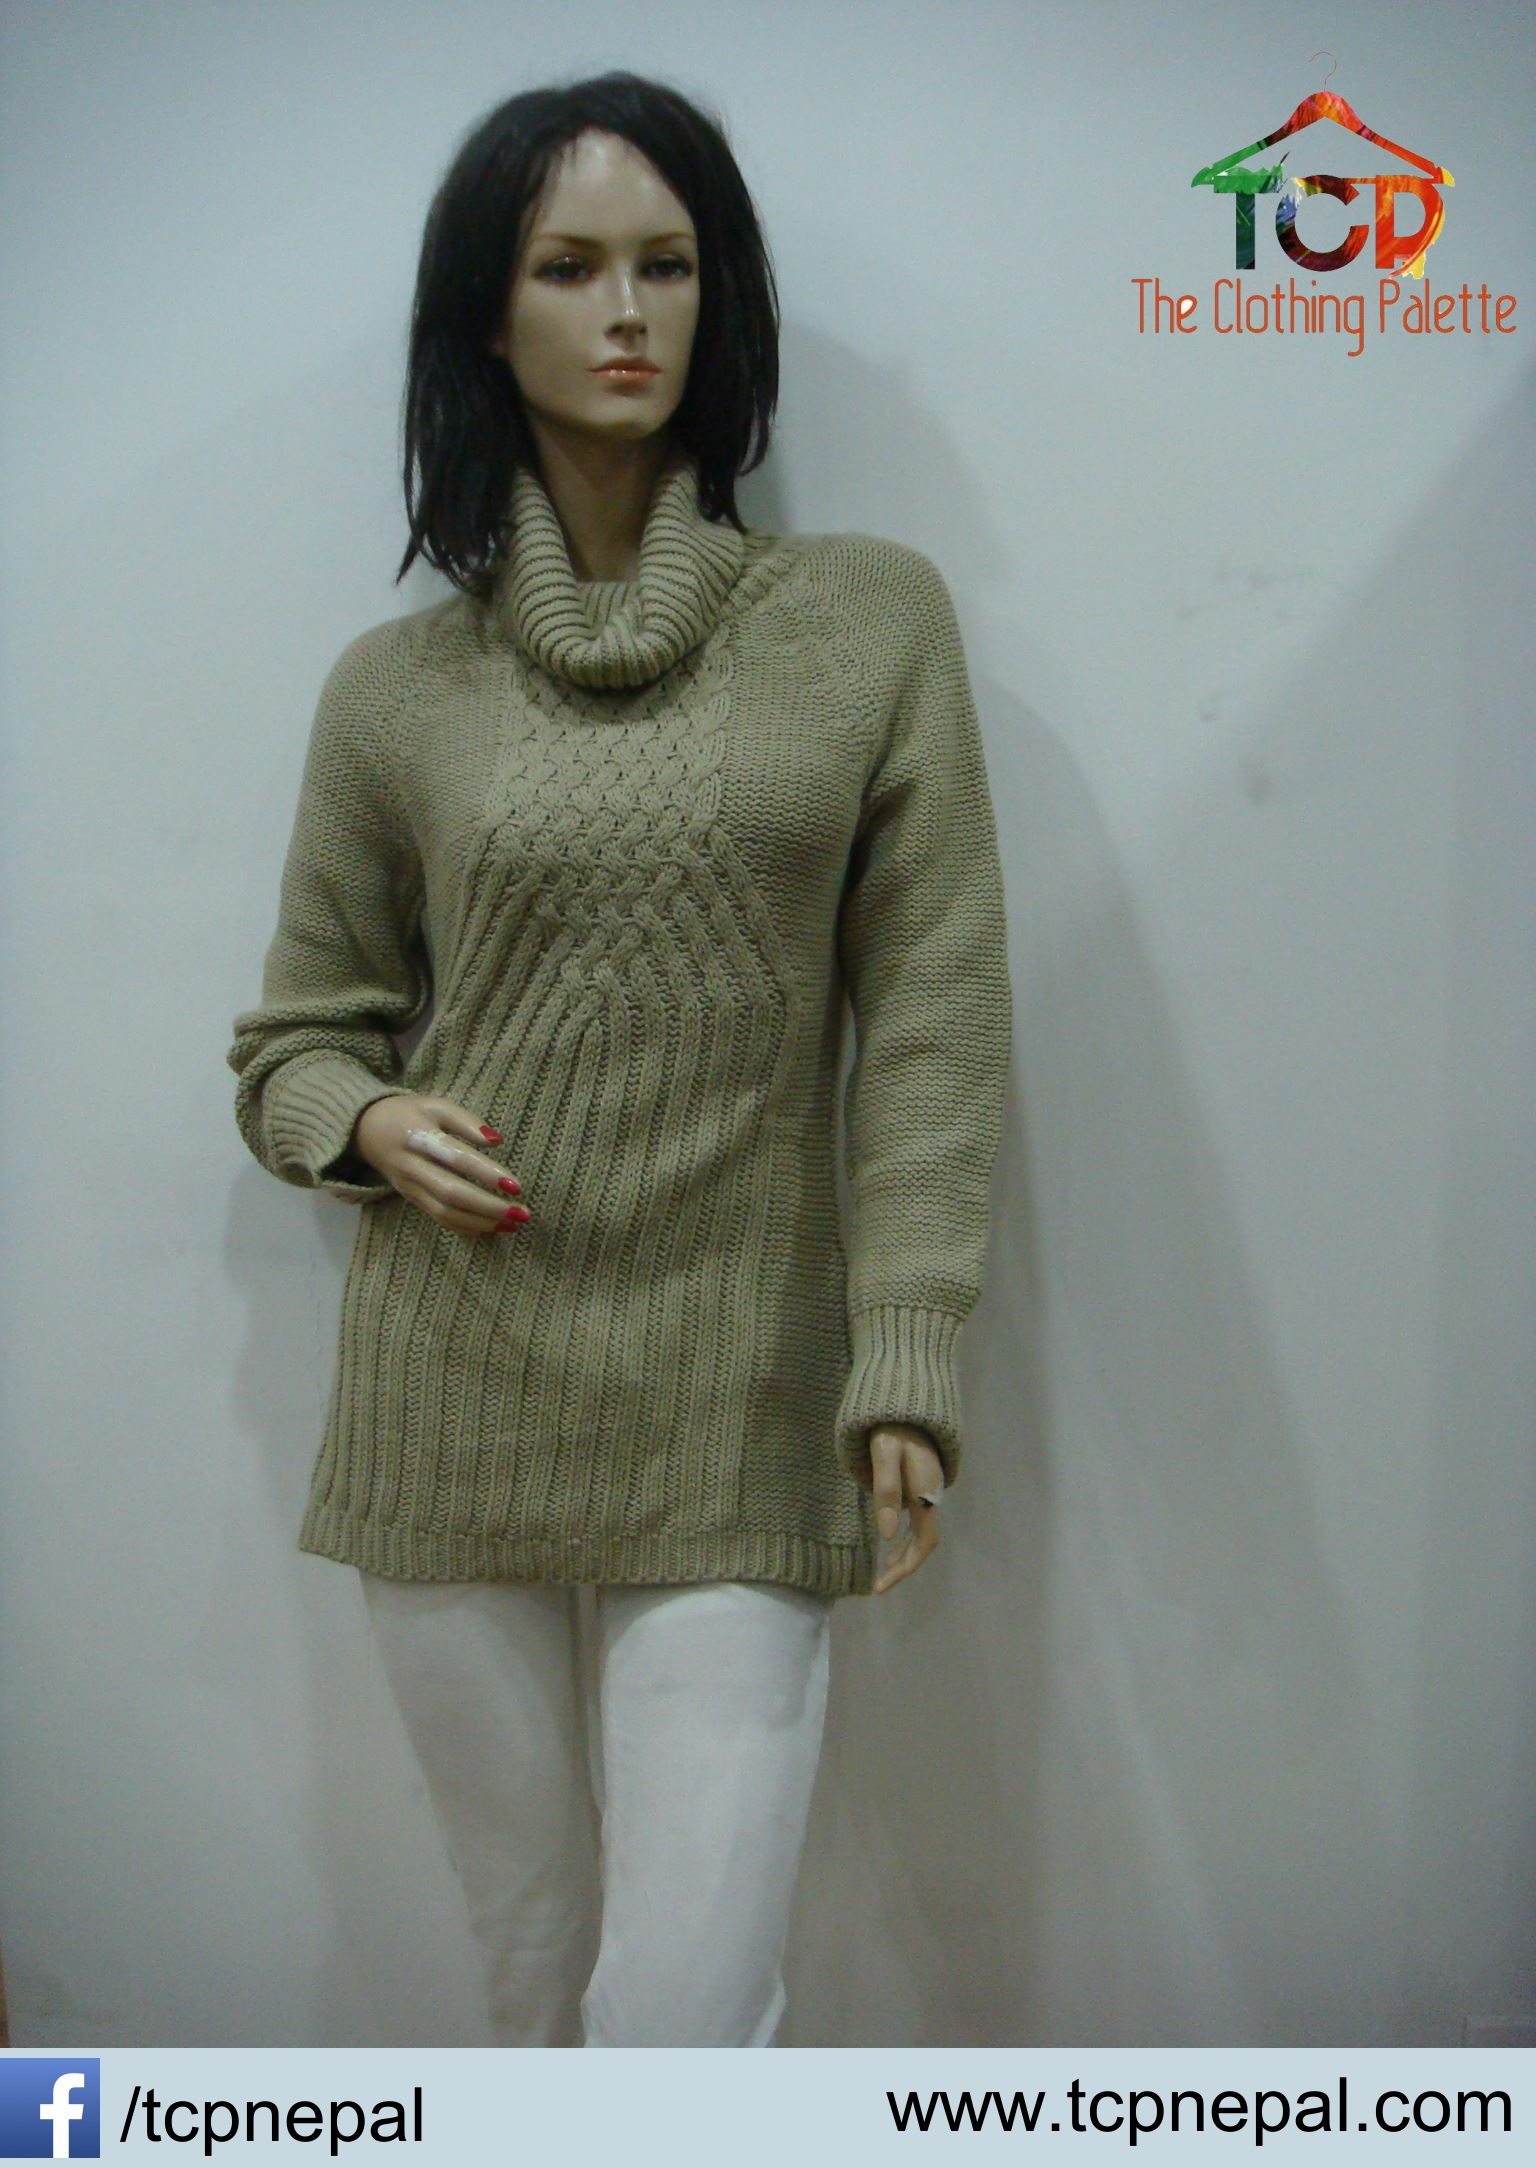
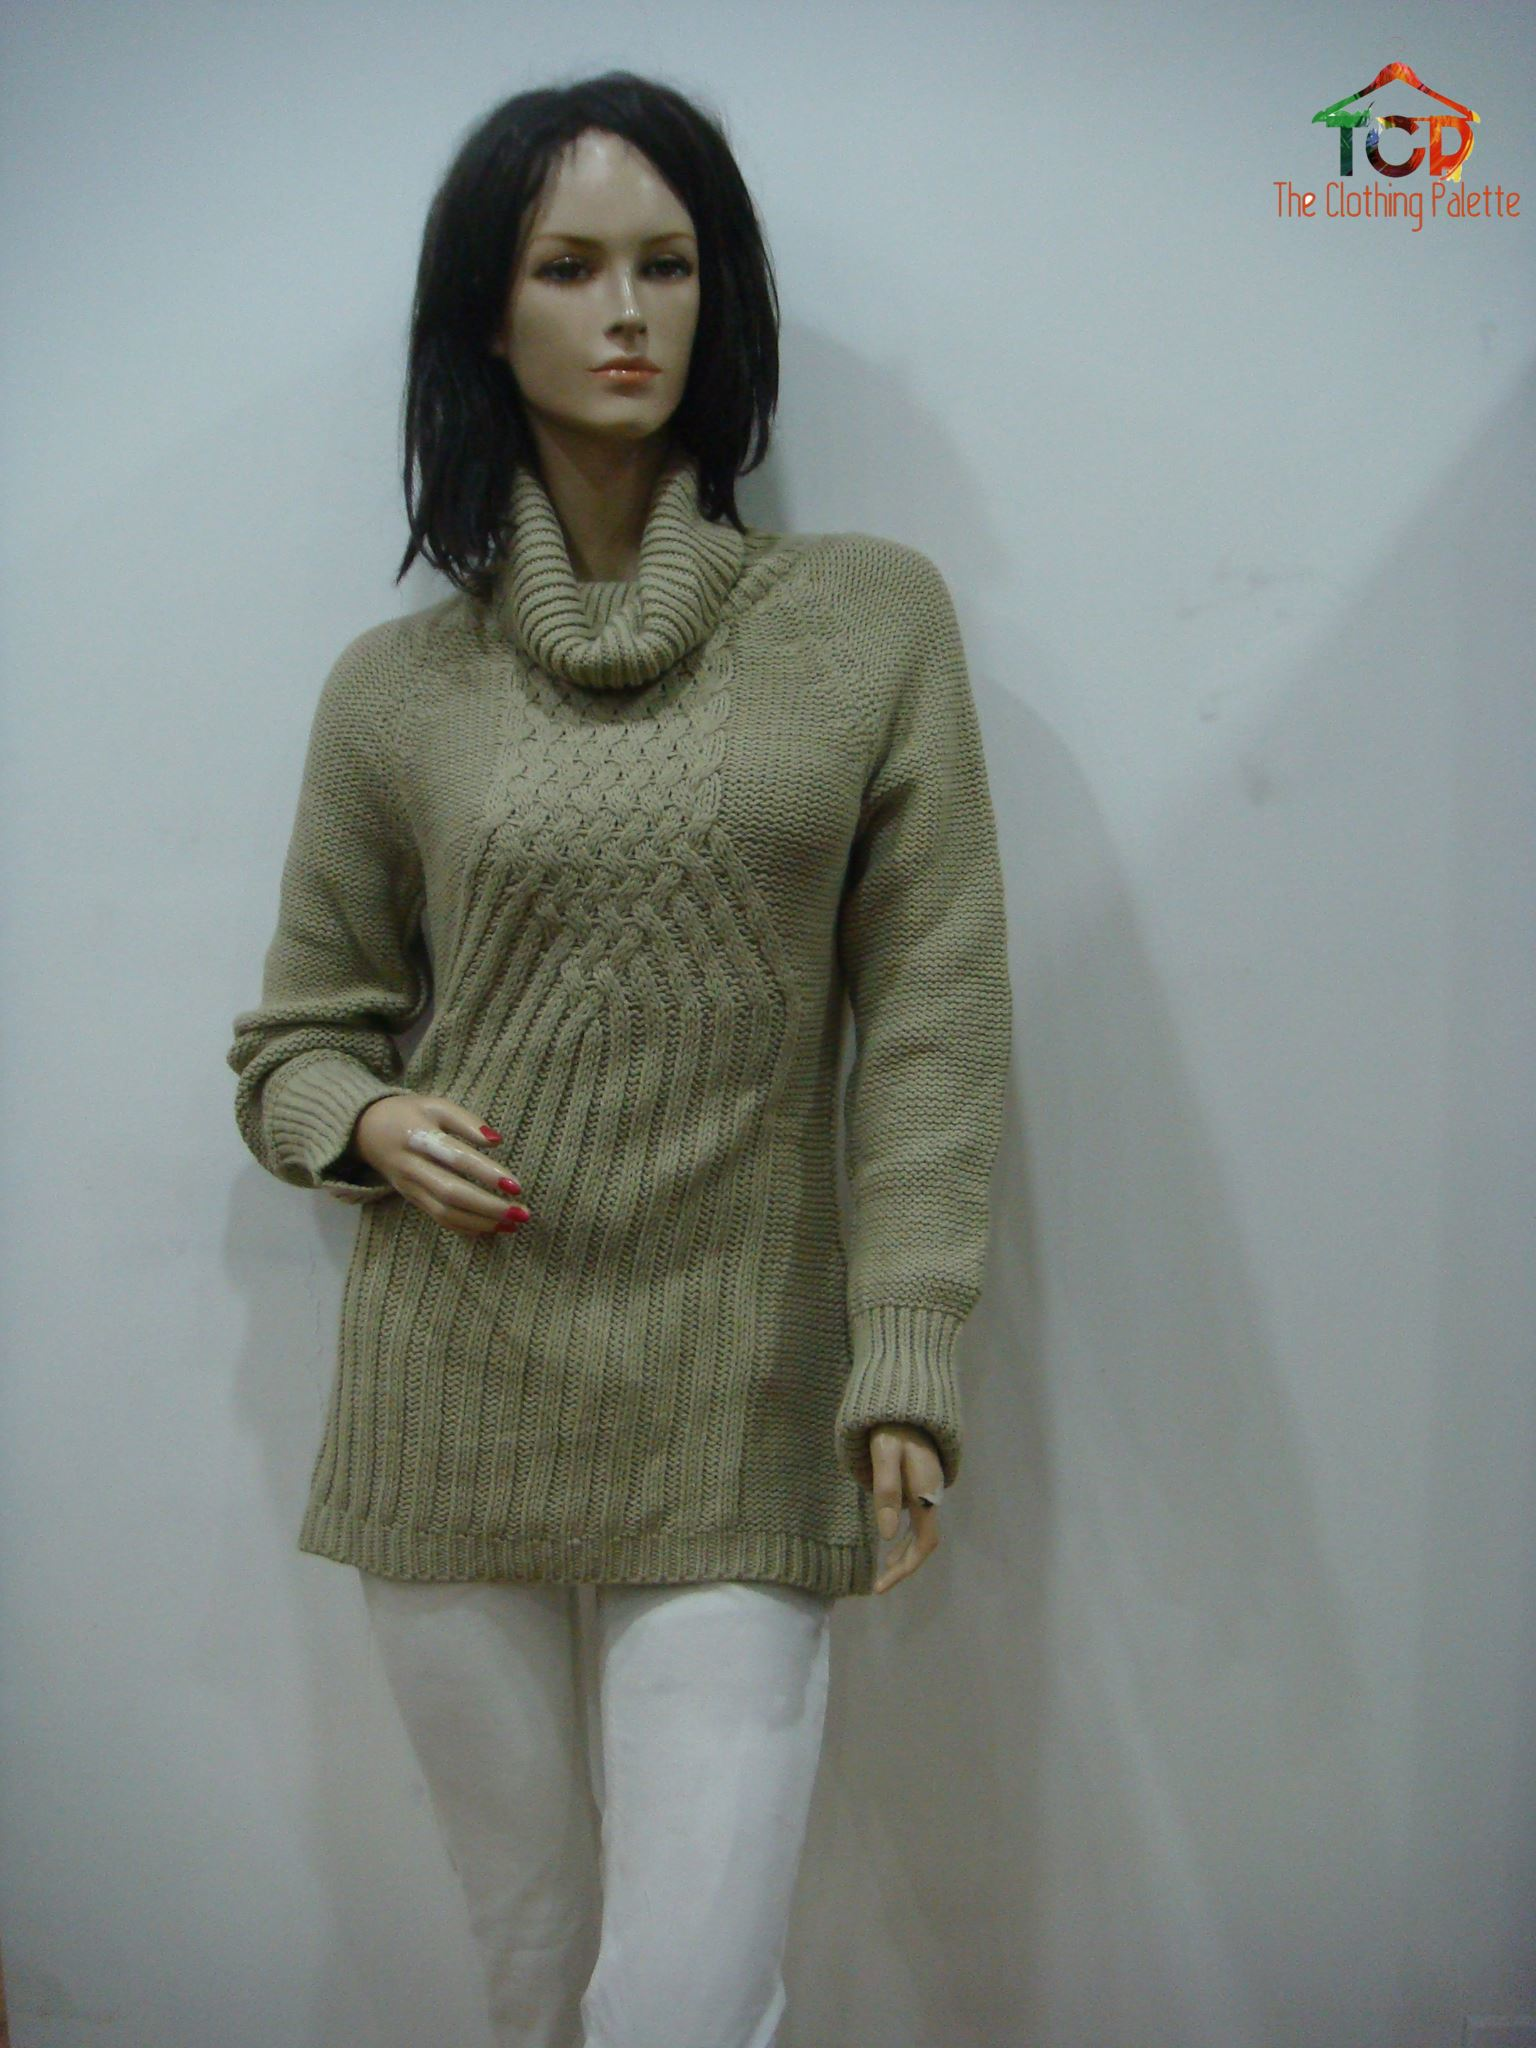
Implemented watermarking using imagemagick

diff --git a/routes/index.js b/routes/index.js
@@ -6,6 +6,9 @@ var spawn = require('child_process').spawn;
 var graph = require('fbgraph');
 var util = require("util");
 var config = require("../config.js");
+var gm = require('gm').subClass({imageMagick: true});
+var path = require('path');
+
 
 // this should really be in a config file!
 var conf = {
@@ -101,17 +104,50 @@ router.post("/upload", function(req, res, next){
         /* The file name of the uploaded file */
         var file_name = this.openedFiles[0].name;
         /* Location where we want to copy the uploaded file */
-        var new_location = 'public/images/';
+        var new_location = 'public' + path.sep + 'images' + path.sep;
+
+        var upload_location = new_location + file_name;
+        var save_location = new_location + "watermark-" + file_name;
 
         fs.readFile(temp_path, function(err, data) {
-            fs.writeFile(new_location + file_name, data, function(err) {
+            fs.writeFile(upload_location, data, function(err) {
                 fs.unlink(temp_path, function(err) {
                     if (err) {
                         console.error(err);
                         } else {
+                            var directory = path.dirname(__dirname);
+                            console.log(directory);
+                            upload_location = directory + path.sep + upload_location;
+                            save_location = directory + path.sep + save_location;
+                            logo_location = directory + path.sep + new_location + path.sep + "logo.png";
+
+                            gm(logo_location)
+                            .size(function(err, size){
+                                var logo_original_width = size.width;
+                                var logo_original_height = size.height;
+                                gm(upload_location)
+                                .size(function (err, size) {
+                                    if (!err) {
+                                        var logo_width = Math.floor(size.width/6);
+                                        var logo_height = Math.floor(logo_width * logo_original_height/logo_original_width);
+                                        var logo_x = size.width - logo_width - 10;
+                                        var logo_y = 10;
+                                        gm(upload_location)
+                                        .draw(['image Over ' + logo_x + ',' + logo_y + ' ' + logo_width + ',' + logo_height + ' \"' + logo_location + '\"'])
+                                        .write(save_location, function (err) {
+                                            res.download('public/images/' + "watermark-" + file_name);
+                                        });;
+                                        ;
+                                    }
+                            });
+                            });
+
+                           // obtain the size of an image
 
 
-                        res.redirect("/getdimensions/" + file_name);
+
+
+                      //  res.redirect("/getdimensions/" + file_name);
                     }
                 });
             });
